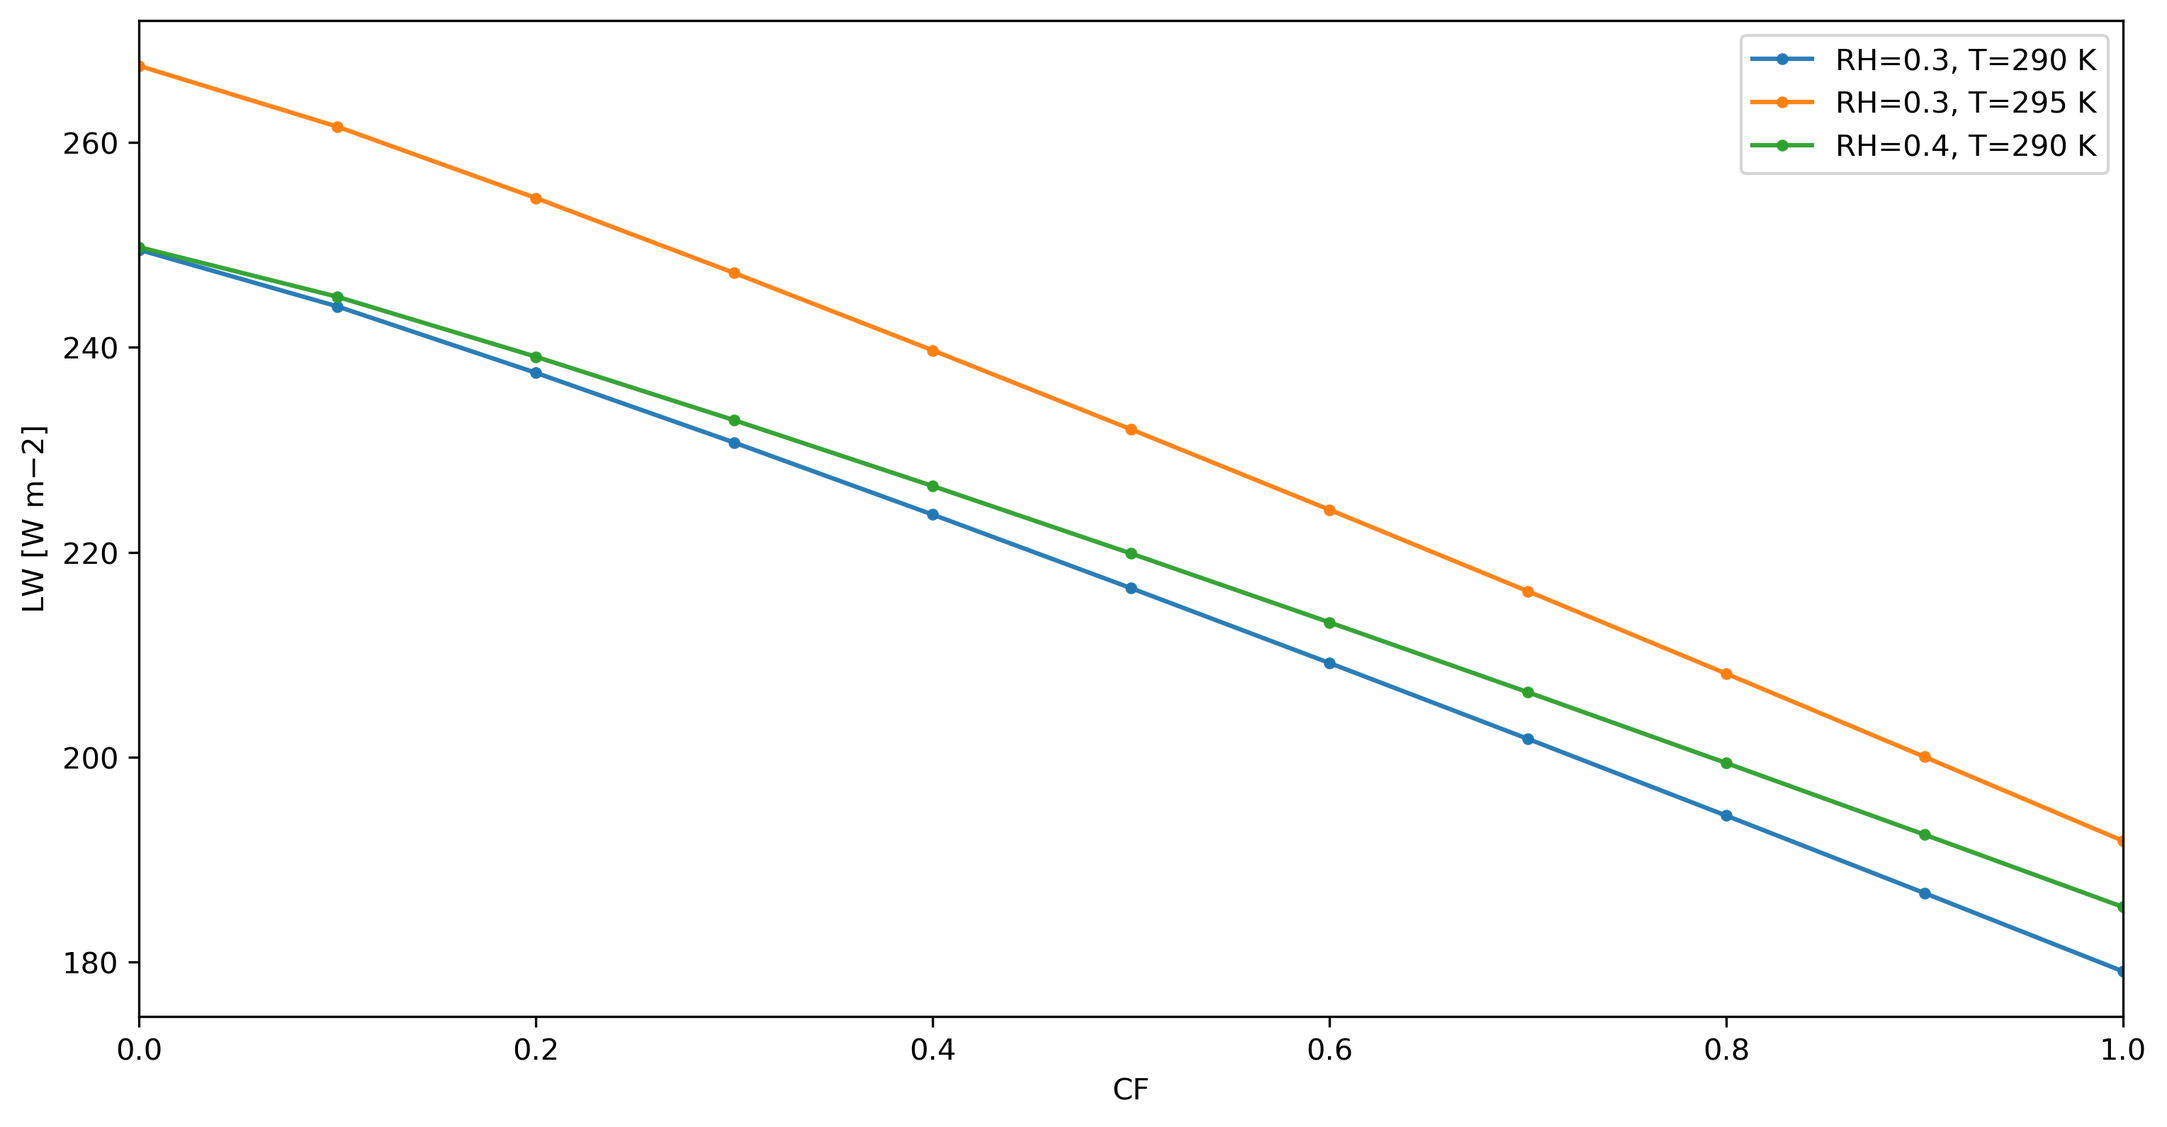
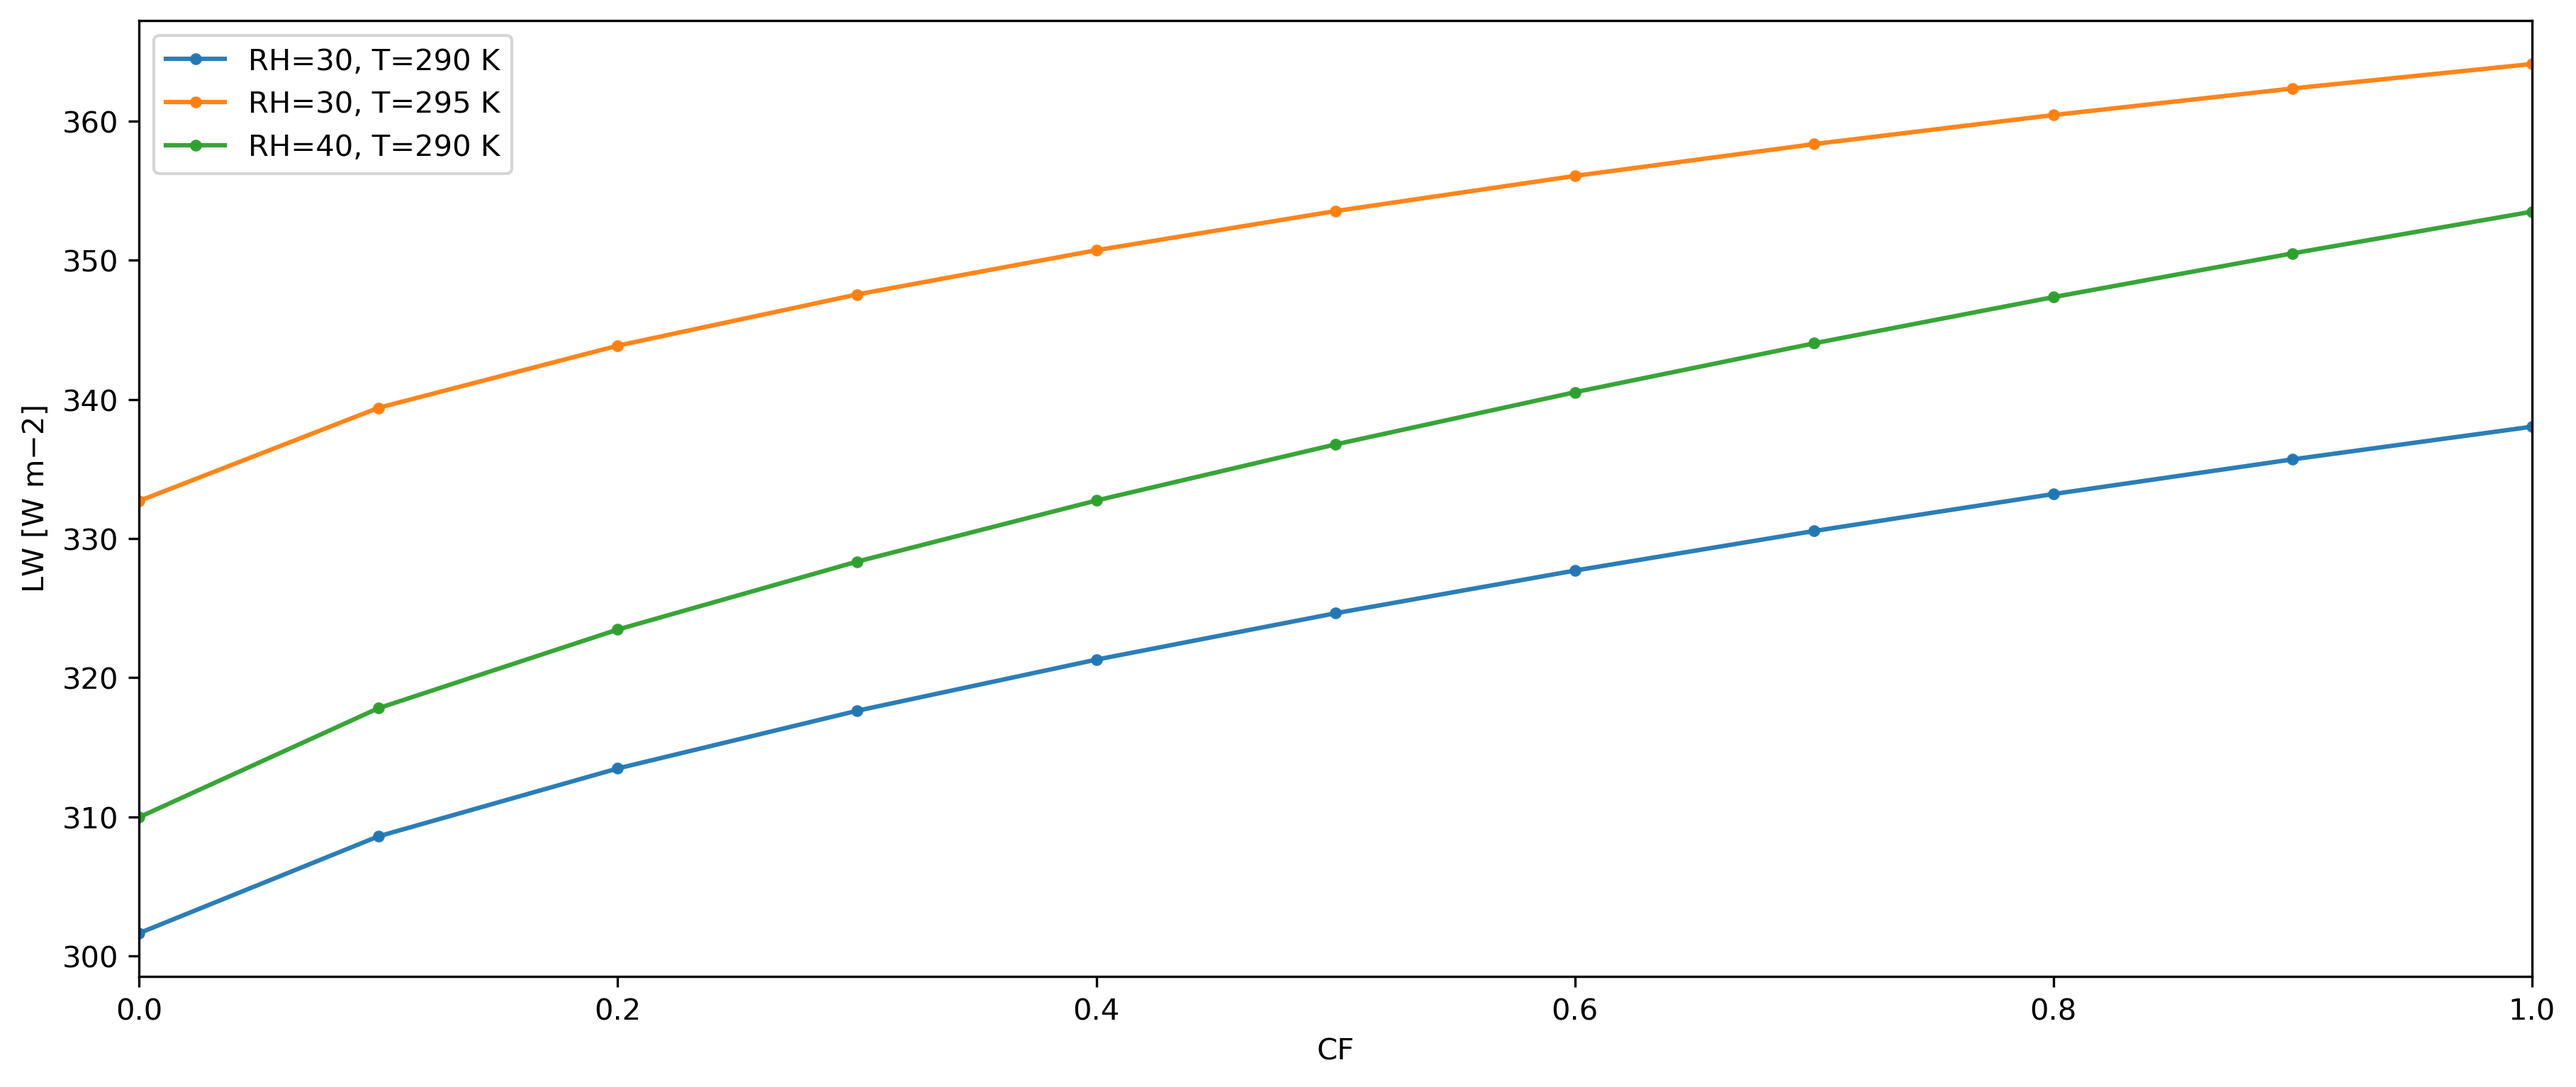
Fix Pw unit in Brunt, fix corr26b plot
RH needs to be given as % not dimensionless

diff --git a/main.py b/main.py
@@ -110,13 +110,28 @@ def giambelluca_lw(cf, t, z):
 def li_lwc(t, rh):
     exp_term = 17.625 * (t - 273.15) / (t - 30.11)
     p_w = 610.94 * (rh / 100) * np.exp(exp_term)  # Pa
-    p_w /= 1000  # kPa
-    e_sky = 0.618 + (0.056 * np.sqrt(p_w))
+    p_w /= 100  # hPa (mb)
+    e_sky = 0.618 + (0.056 * np.sqrt(p_w))  # calibrated Brunt
     lwc = e_sky * SIGMA * np.power(t, 4)
     return lwc
 
 
 def li_lw(cf, t, rh):
+    """
+
+    Parameters
+    ----------
+    cf : float
+        Given as % value same as RH
+    t : float
+        Units K
+    rh : float
+        Given as % value e.g. RH=30 is 30% humidity
+
+    Returns
+    -------
+
+    """
     lwc = li_lwc(t, rh)
     c1 = 0.78
     c2 = 1
@@ -127,8 +142,8 @@ def li_lw(cf, t, rh):
     term1 = lwc * (1 - (c1 * np.power(cf, c2)))
     term2 = c3 * SIGMA * np.power(t, 4) * np.power(cf, c4) * np.power(rh, c5)
     lw = term1 + term2
-    print(term1, "\n")
-    print(term2)
+    # print(term1, "\n")
+    # print(term2)
     return lw
 
 
@@ -160,7 +175,7 @@ def make_full_lw_plot(station_info, df):
 def plot_26b():
     # print("make figure for 26b")
     cf = np.linspace(0, 1, 11)
-    conditions = [(0.3, 290), (0.3, 295), (0.4, 290)]
+    conditions = [(30, 290), (30, 295), (40, 290)]
     fig, ax = plt.subplots(figsize=(8, 4), layout="constrained")
     for rh, t in conditions:
         lw = li_lw(cf, t, rh)
@@ -169,7 +184,8 @@ def plot_26b():
     ax.set_ylabel("LW [W m${-2}$]")
     ax.set_xlabel("CF")
     ax.legend()
-    plt.show()
+    filename = os.path.join("figures", "corr26b.png")
+    fig.savefig(filename, bbox_inches="tight", dpi=300)
     return None
 
 
@@ -239,6 +255,7 @@ if __name__ == "__main__":
     plot_data_w_models("HN164", station_info, df)
 
     # make_full_lw_plot(station_info, df)
+    plot_26b()
 
 
 
